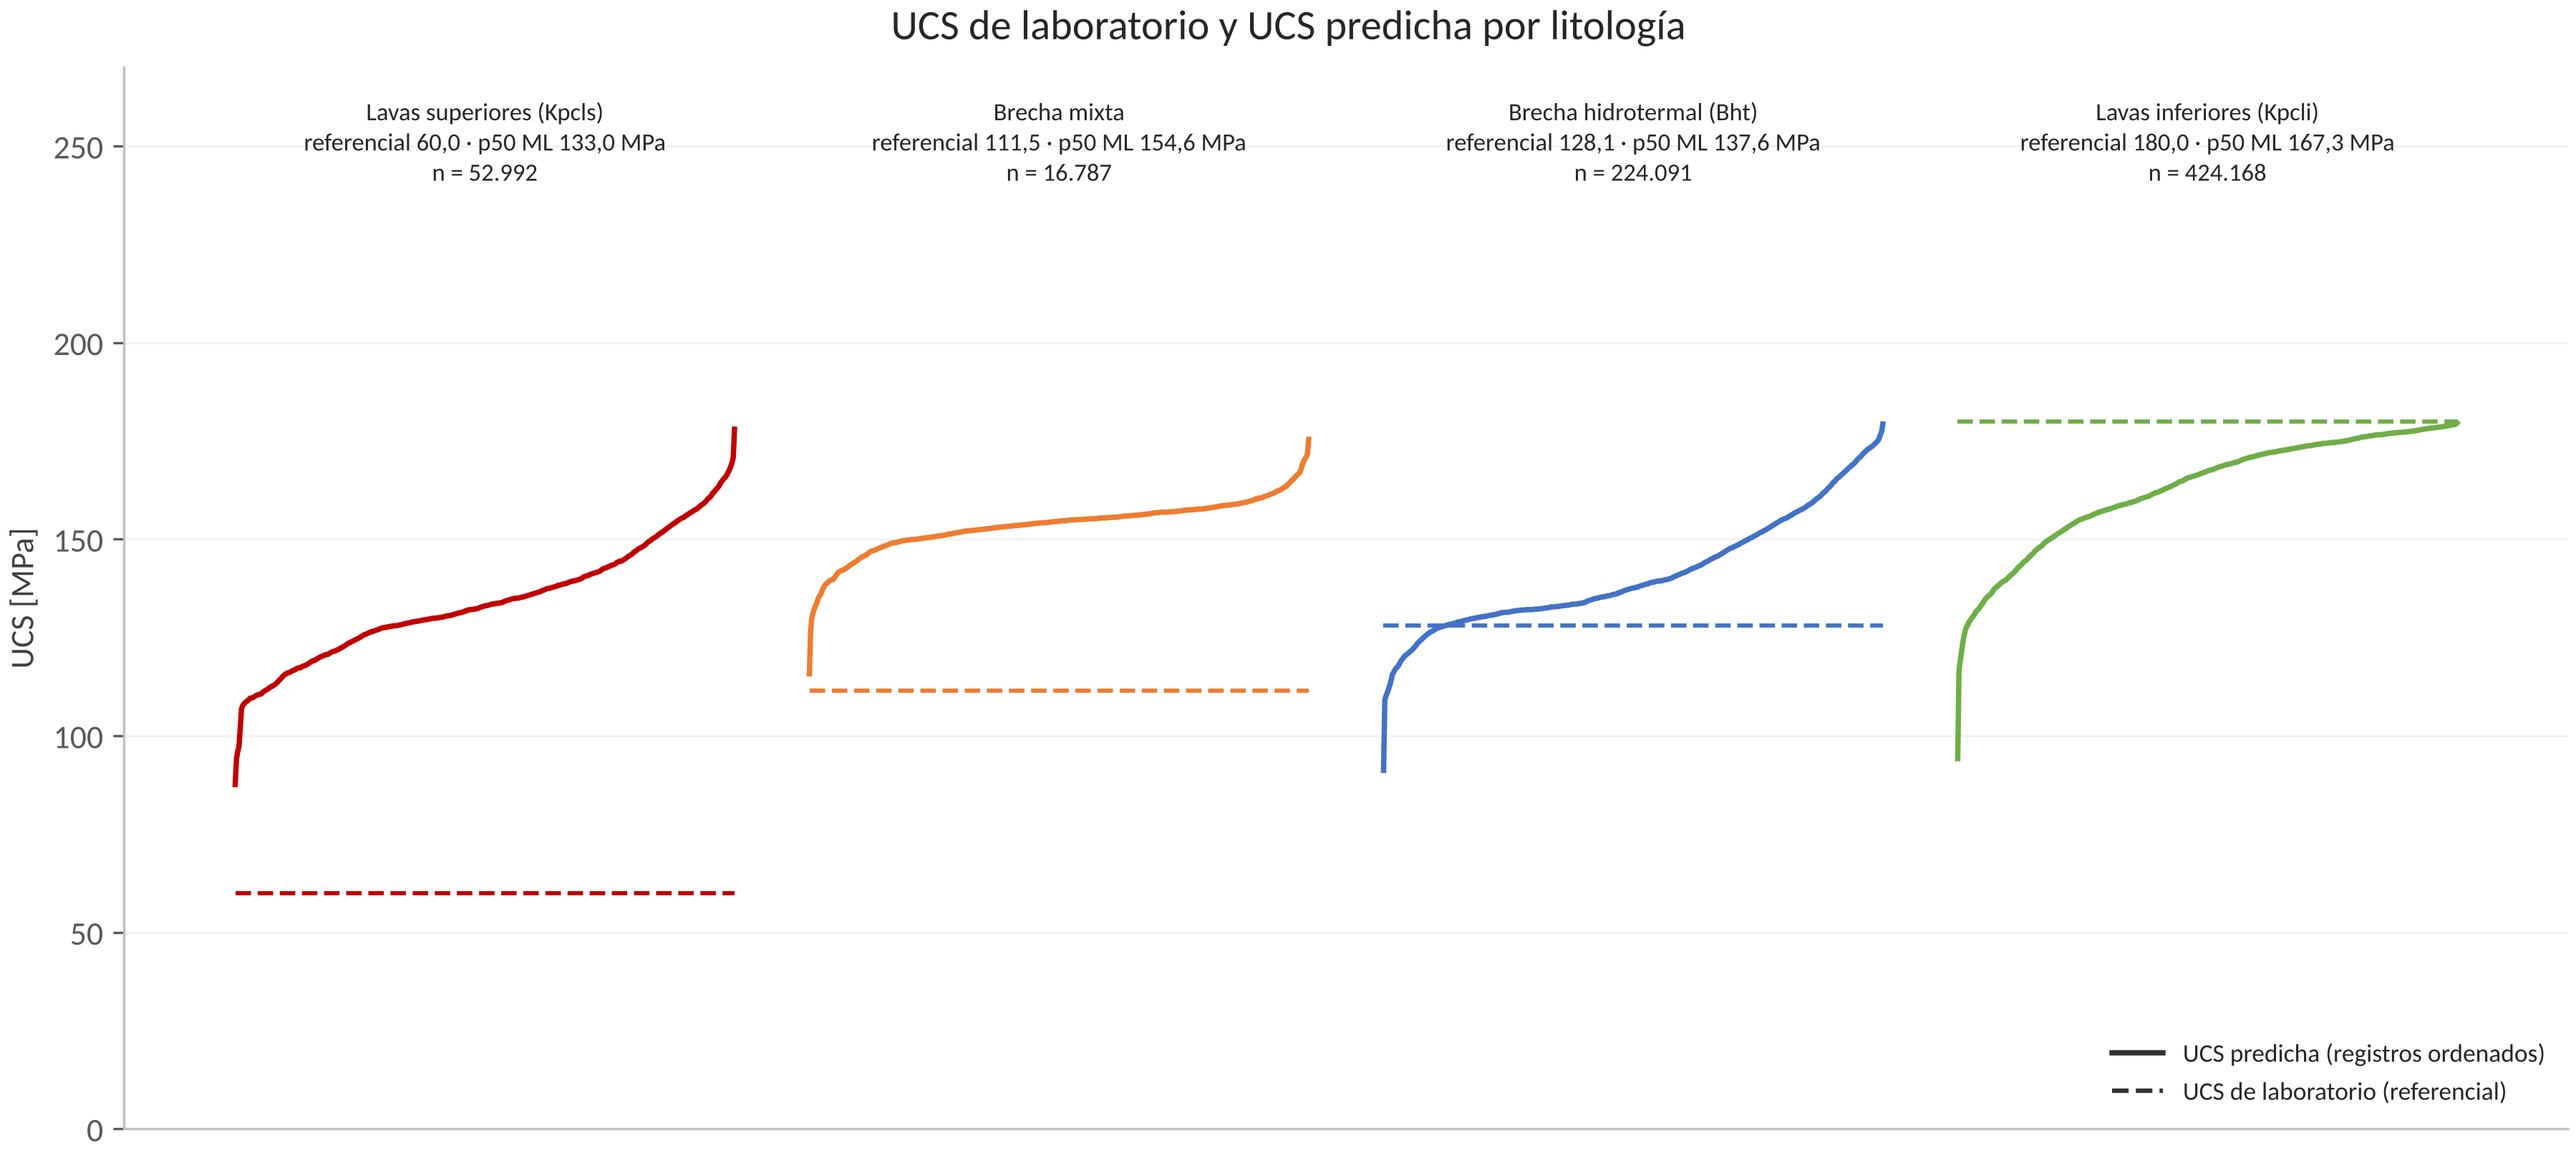
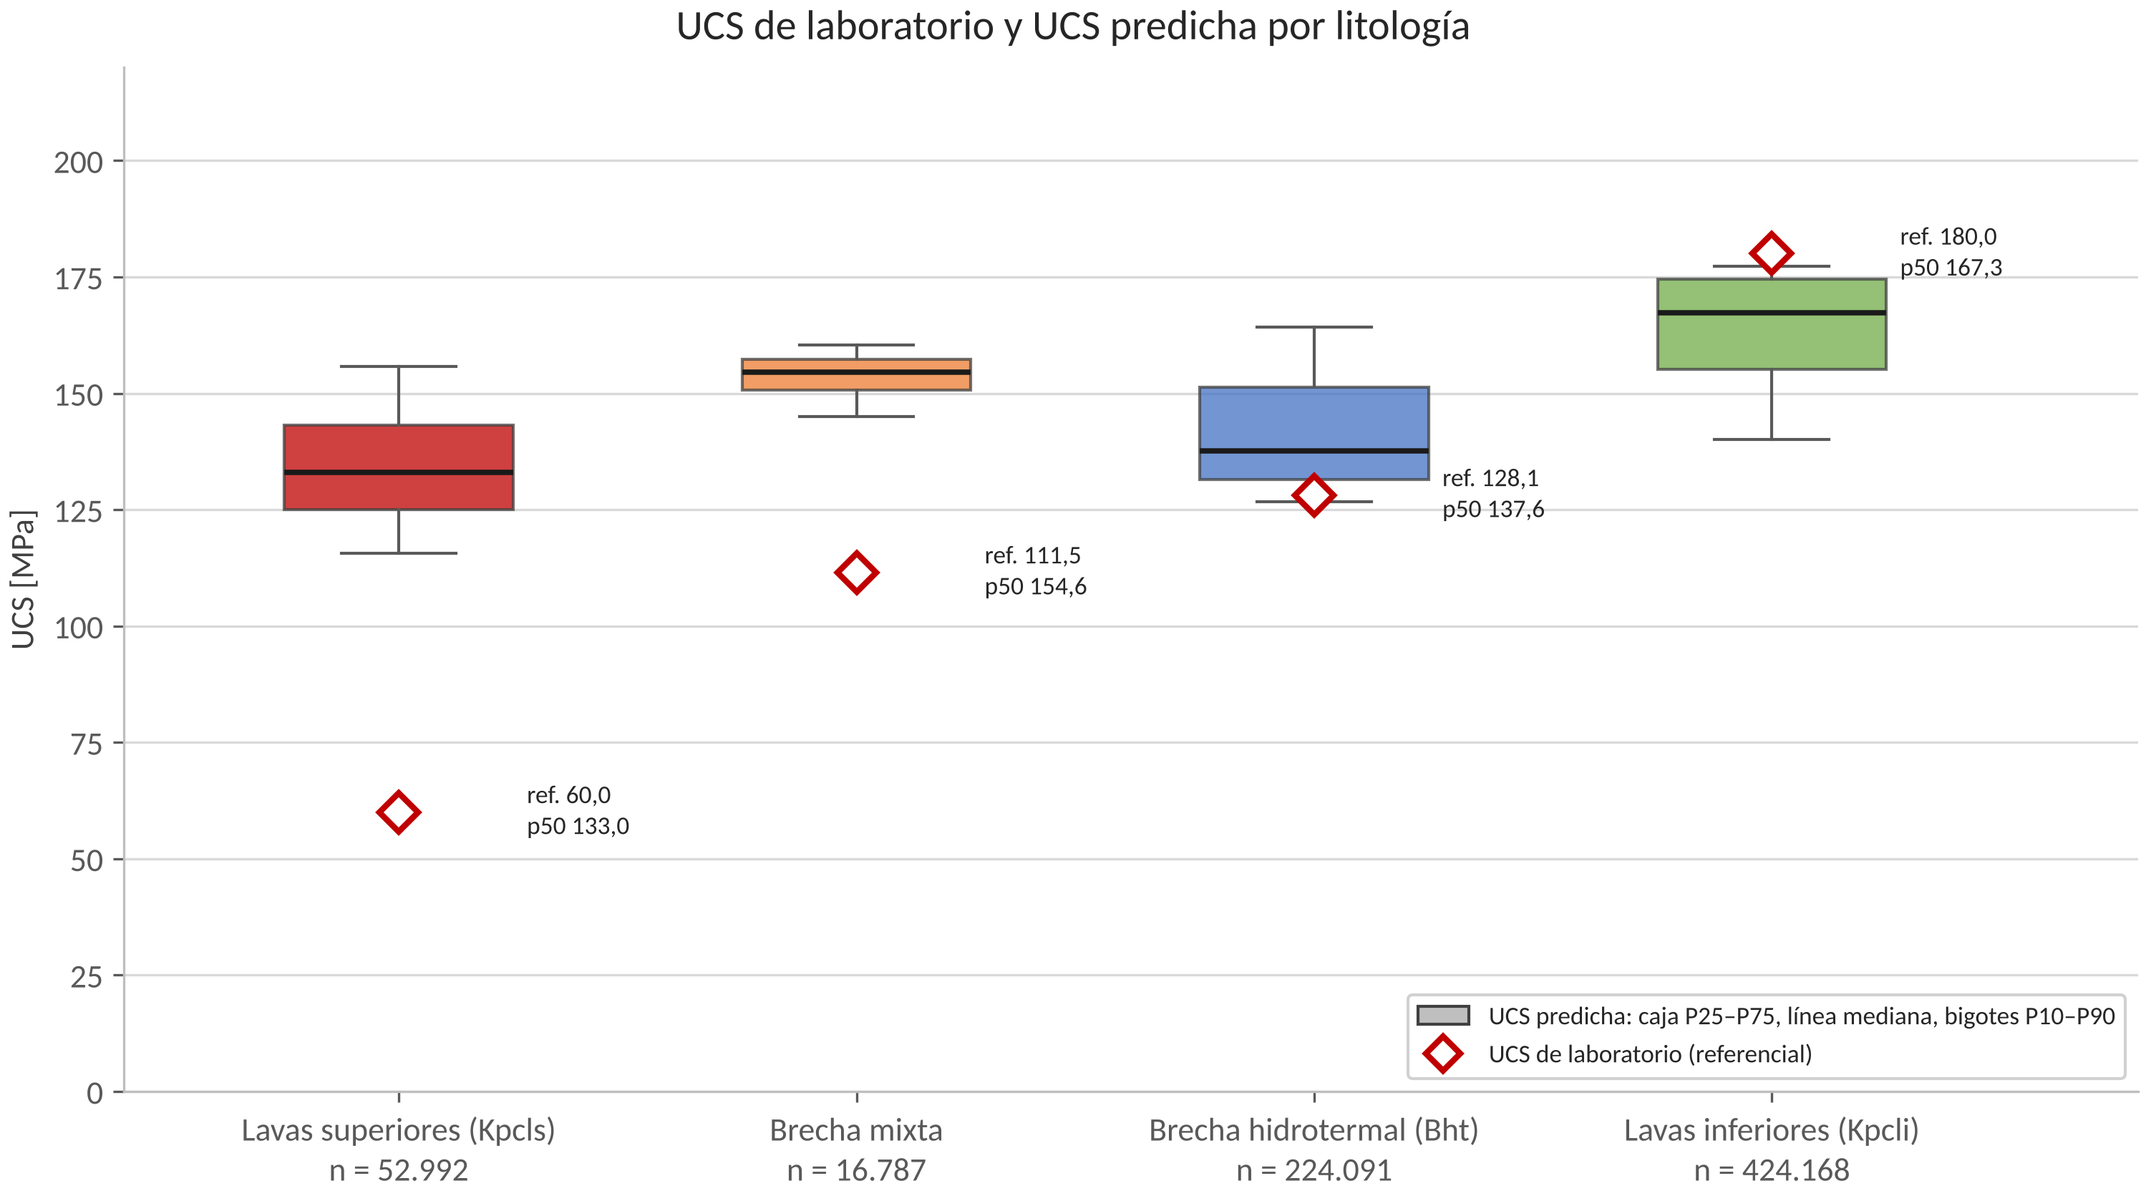
UCS de laboratorio vs predicha por litologia como boxplot
Claude-Session: https://claude.ai/code/session_01MT9AkNnHr1e9AMWji6YncB

diff --git a/memoria_final/final/final_figs.py b/memoria_final/final/final_figs.py
@@ -440,21 +440,30 @@ guardar(fig, "F6_06c_PEP_vs_UCS_ajuste_intacta.png")
 # ── 6.7 UCS lab vs ML por litología ─────────────────────────────────────────
 U7 = R["ucs_por_litologia"]
 orden = sorted(U7, key=lambda k: U7[k]["ancla"] or 0)
-fig, ax = plt.subplots(figsize=(12, 5.4))
-x0 = 0
+# Boxplot desde la curva de cuantiles guardada (400 registros ordenados):
+# caja P25–P75, mediana, bigotes P10–P90 (exactos en final.json). Sin atípicos:
+# con cientos de miles de registros por litología solo ensuciarían la vista.
+fig, ax = plt.subplots(figsize=(10, 5.6))
+stats = []
 for lito in orden:
-    d = U7[lito]; cv_ = np.array(d["curva"]); xs = np.linspace(x0, x0 + 1, cv_.size)
-    c = COL_LITO.get(lito, GRIS)
-    ax.plot(xs, cv_, color=c, lw=1.8)
-    ax.hlines(d["ancla"], x0, x0 + 1, color=c, ls="--", lw=1.4)
-    ax.text(x0 + 0.5, 262, f"{NOM_LITO.get(lito, lito)}\nreferencial {dec(d['ancla'], 1)} · p50 ML {dec(d['p50'], 1)} MPa\nn = {mil(d['n'])}",
-            ha="center", va="top", fontsize=8.3)
-    x0 += 1.15
-ax.set_xticks([]); ax.set_ylim(0, 270); ax.set_ylabel("UCS [MPa]"); ax.grid(axis="y", alpha=0.3)
-ax.legend(handles=[plt.Line2D([], [], color="#333", lw=1.8, label="UCS predicha (registros ordenados)"),
-                   plt.Line2D([], [], color="#333", ls="--", label="UCS de laboratorio (referencial)")], loc="lower right", fontsize=8.5)
+    d = U7[lito]; cv_ = np.array(d["curva"])
+    stats.append({"label": f"{NOM_LITO.get(lito, lito)}\nn = {mil(d['n'])}", "med": d["p50"],
+                  "q1": float(np.percentile(cv_, 25)), "q3": float(np.percentile(cv_, 75)),
+                  "whislo": d["p10"], "whishi": d["p90"], "fliers": []})
+bp = ax.bxp(stats, positions=range(len(orden)), widths=0.5, patch_artist=True, showfliers=False,
+            medianprops=dict(color="#1a1a1a", lw=1.8), whiskerprops=dict(color="#595959"), capprops=dict(color="#595959"))
+for caja, lito in zip(bp["boxes"], orden):
+    caja.set_facecolor(COL_LITO.get(lito, GRIS)); caja.set_alpha(0.75); caja.set_edgecolor("#404040")
+for k, lito in enumerate(orden):
+    d = U7[lito]
+    ax.plot(k, d["ancla"], marker="D", ms=9, color="white", mec="#C00000", mew=2, zorder=6)
+    ax.annotate(f"ref. {dec(d['ancla'], 1)}\np50 {dec(d['p50'], 1)}", (k + 0.28, d["ancla"]), va="center", fontsize=8.5)
+ax.set_ylim(0, 220); ax.set_ylabel("UCS [MPa]"); ax.set_xlim(-0.6, len(orden) - 0.2)
+ax.legend(handles=[Patch(facecolor="#BFBFBF", edgecolor="#404040", label="UCS predicha: caja P25–P75, línea mediana, bigotes P10–P90"),
+                   plt.Line2D([], [], ls="", marker="D", ms=8, color="white", mec="#C00000", mew=2, label="UCS de laboratorio (referencial)")],
+          loc="lower right", fontsize=8.5, frameon=True, framealpha=0.9)
 fig.suptitle("UCS de laboratorio y UCS predicha por litología")
-pie(fig, "Registros entrenables de roca intacta. Predicción = mediana de los 200 árboles. " + PIE_CFG, y=-0.03); guardar(fig, "F6_07_UCS_lab_vs_ML.png")
+guardar(fig, "F6_07_UCS_lab_vs_ML.png")
 
 # ── 6.8 comparación de algoritmos ───────────────────────────────────────────
 C = R["comparacion"]; rows = [r for r in C.get("rows", []) if r.get("r2_mean") is not None]
